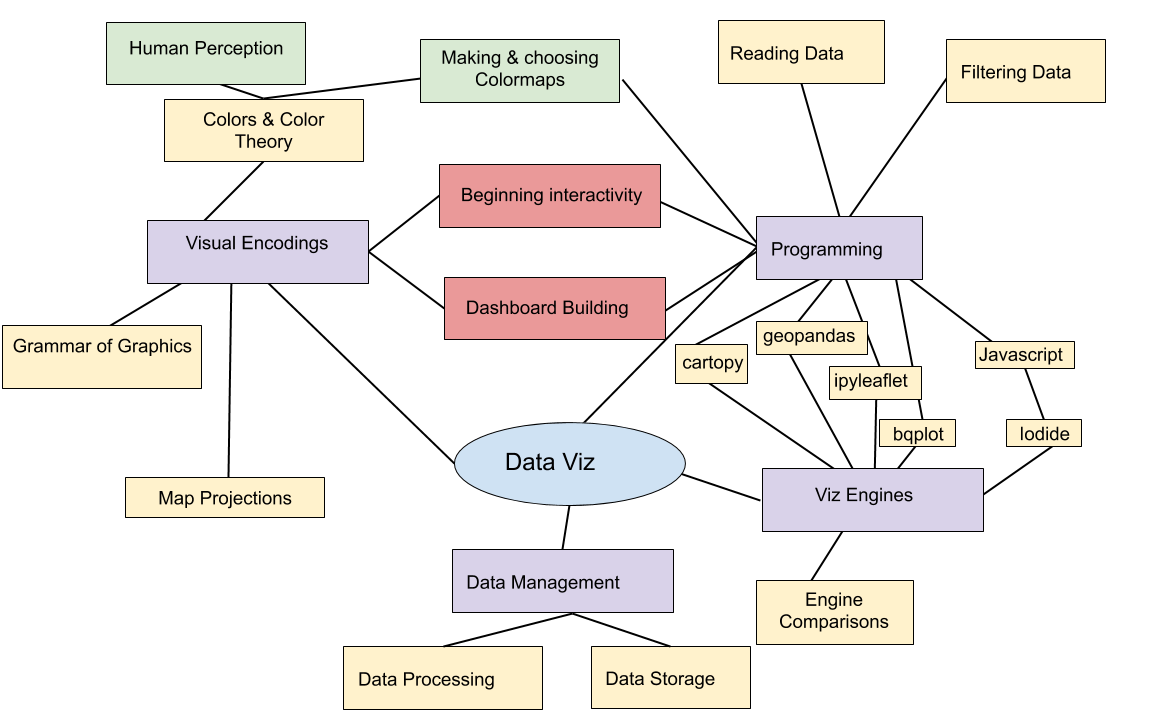
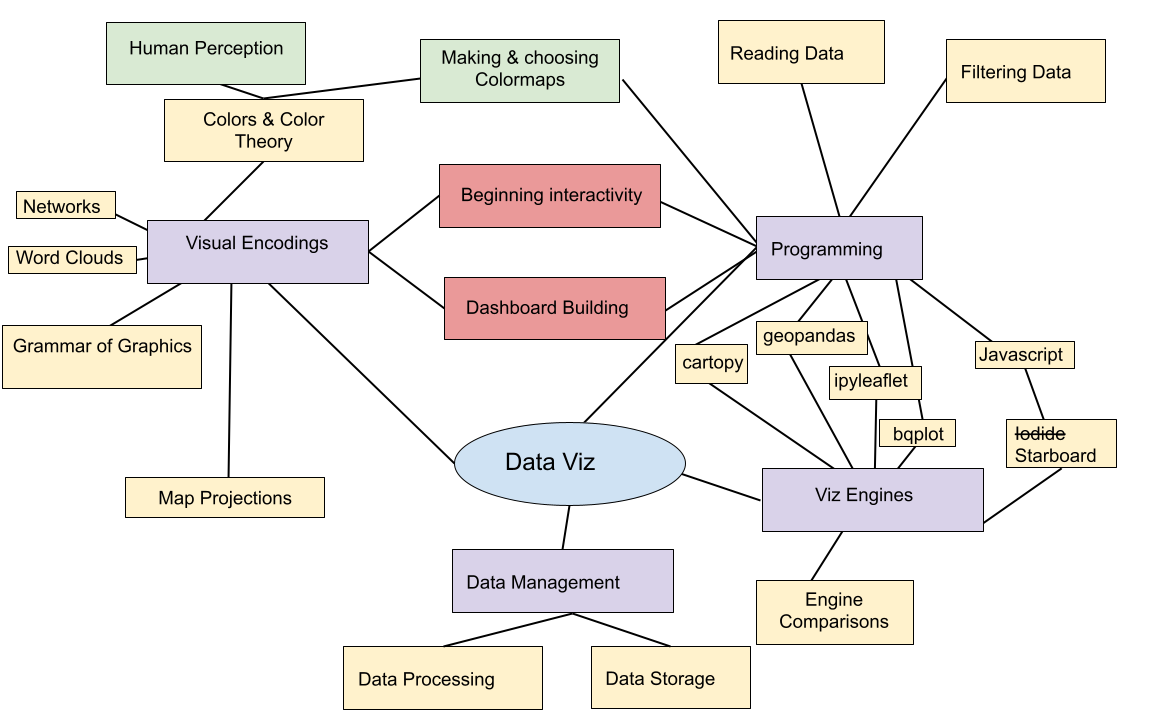
lecture

Changed region(s): [[0.875, 0.5806, 0.9688, 0.7028], [0.0, 0.3361, 0.125, 0.3972], [0.0, 0.2444, 0.125, 0.3056]]

diff --git a/_site/week09/lecture08.html b/_site/week09/lecture08.html
@@ -44,16 +44,23 @@
 
 <img src="images/last_week2.png">
 
+notes:
+last week we discussed maps and mappable data
+
 ---
 
 ## This Week
 
-<img src="images/this_week2.png">
+<img src="images/this_week3.png">
 
 notes: 
 this week we'll finally start dipping our toes into Javascript with some seriousness
 
 Luckily, will all of our usage of bqplot and grammar of graphics we are well equipt to do this!
+
+in previous iterations of the class we used an online notebook host called Iodide to do this, but it is no longer supported so we are going to use a different one called Starboard
+
+I've kept some of the links to old Iodide prep notebooks in the extended resources in case you are curious, but it will be very similar to stuff we will be doing using Starboard
 
 ---
 
@@ -61,7 +68,7 @@ Luckily, will all of our usage of bqplot and grammar of graphics we are well equ
 
  1. Choosing your viz
  1. Intro to Vega/Vega-lite
- 1. Iodide
+ 1. ~~Iodide~~ Starboard
 
 ---
 

diff --git a/_site/week09/index.html b/_site/week09/index.html
@@ -186,7 +186,7 @@ Feel free to check out [Spring 2020's notebook that uses police shooting data fo
                 <span class="icon is-large"><i class="fas fa-3x fa-chalkboard-teacher"></i></span>
             </figure>
             <div class="media-content">
-                <p><a href="/is445_AOUAOG_fall2021/week09/lecture08.html">Lecture 8 - Choosing viz & Online viz platforms</a></p><p>Choosing what viz type to use, and an introduction to Vega/Vega-lite and Iodide </p>
+                <p><a href="/is445_AOUAOG_fall2021/week09/lecture08.html">Lecture 8 - Choosing viz & Online viz platforms</a></p><p>Choosing what viz type to use, and an introduction to Vega/Vega-lite and Starboard </p>
             </div>
         </article>
         

diff --git a/_site/index.html b/_site/index.html
@@ -1418,7 +1418,7 @@ includes contact information and a course outline.</p>
                 <span class="icon is-large"><i class="fas fa-3x fa-chalkboard-teacher"></i></span>
             </figure>
             <div class="media-content">
-                <p><a href="/is445_AOUAOG_fall2021/week09/lecture08.html">Lecture 8 - Choosing viz & Online viz platforms</a></p><p>Choosing what viz type to use, and an introduction to Vega/Vega-lite and Iodide </p>
+                <p><a href="/is445_AOUAOG_fall2021/week09/lecture08.html">Lecture 8 - Choosing viz & Online viz platforms</a></p><p>Choosing what viz type to use, and an introduction to Vega/Vega-lite and Starboard </p>
             </div>
         </article>
         

diff --git a/week09/lecture08.md b/week09/lecture08.md
@@ -2,24 +2,31 @@
 title: Lecture 8 - Choosing viz & Online viz platforms
 layout: lecture
 description: >-
- Choosing what viz type to use, and an introduction to Vega/Vega-lite and Iodide 
-date: 2020-03-15
+ Choosing what viz type to use, and an introduction to Vega/Vega-lite and Starboard 
+date: 2021-10-18
 ---
 
 ## Last Week
 
 <img src="images/last_week2.png">
 
+notes:
+last week we discussed maps and mappable data
+
 ---
 
 ## This Week
 
-<img src="images/this_week2.png">
+<img src="images/this_week3.png">
 
 notes: 
 this week we'll finally start dipping our toes into Javascript with some seriousness
 
 Luckily, will all of our usage of bqplot and grammar of graphics we are well equipt to do this!
+
+in previous iterations of the class we used an online notebook host called Iodide to do this, but it is no longer supported so we are going to use a different one called Starboard
+
+I've kept some of the links to old Iodide prep notebooks in the extended resources in case you are curious, but it will be very similar to stuff we will be doing using Starboard
 
 ---
 
@@ -27,7 +34,7 @@ Luckily, will all of our usage of bqplot and grammar of graphics we are well equ
 
  1. Choosing your viz
  1. Intro to Vega/Vega-lite
- 1. Iodide
+ 1. ~~Iodide~~ Starboard
 
 ---
 
